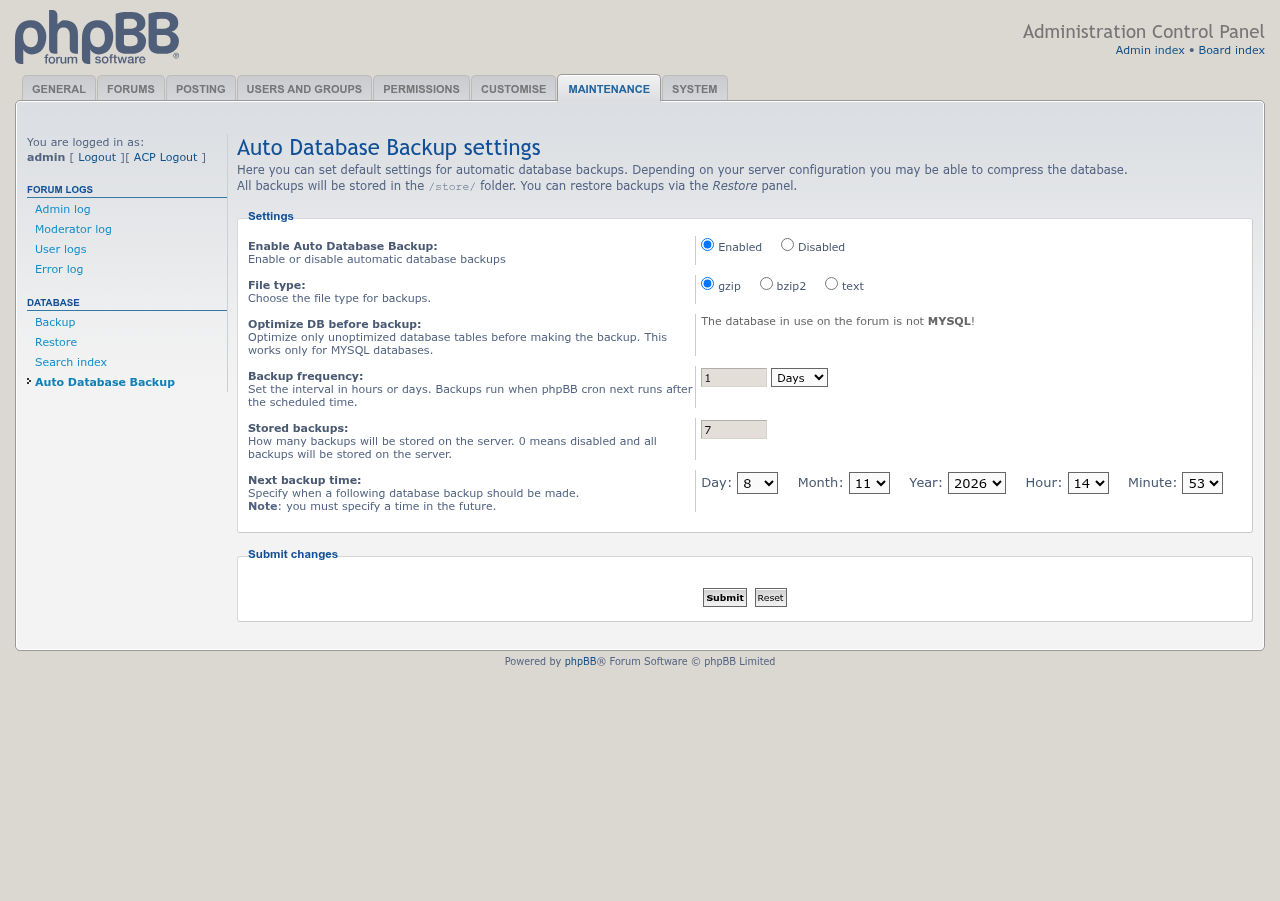
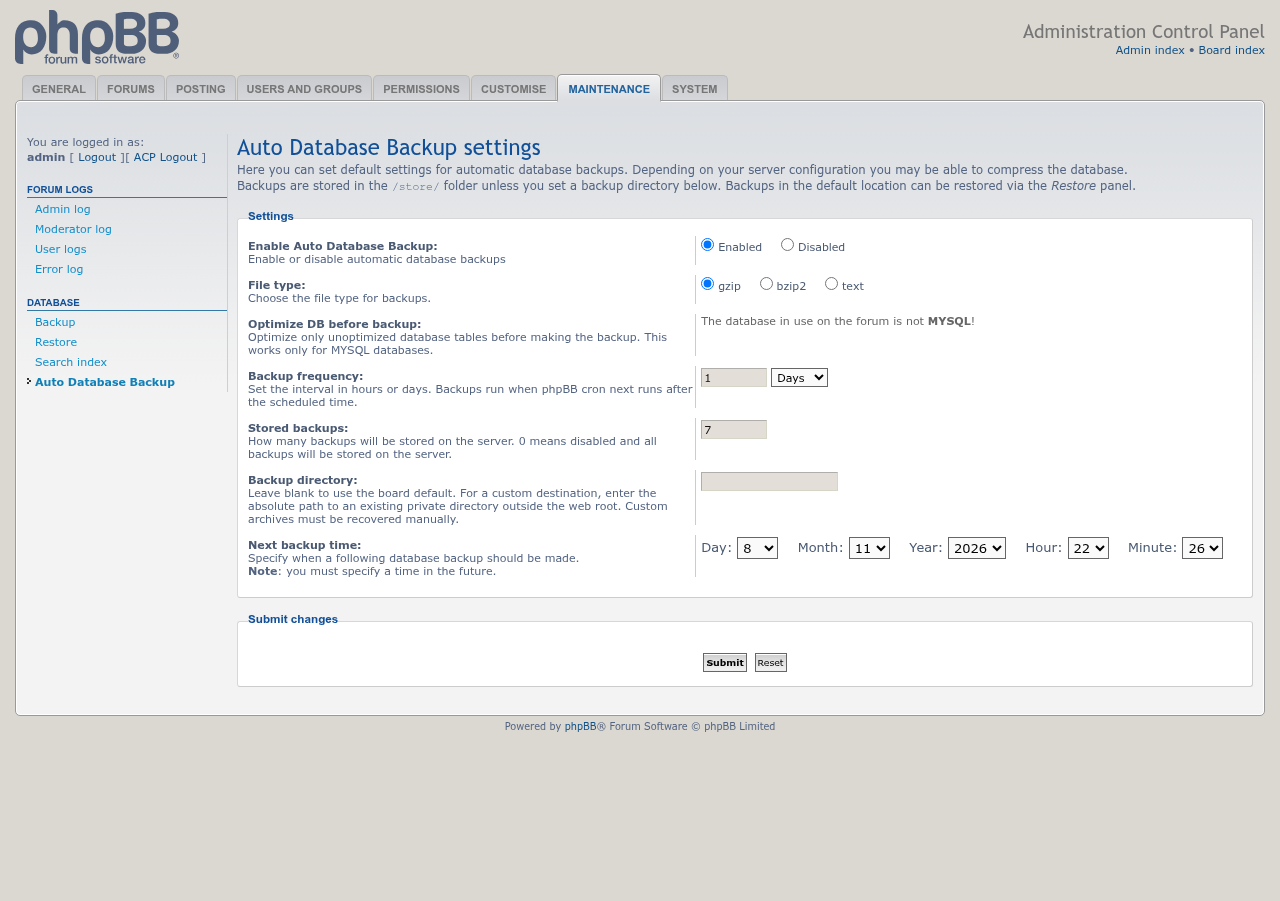
fix: refuse a backup directory path longer than 255 characters; refresh screenshots (#15)
* fix: refuse a backup directory path longer than 255 characters

phpBB stores config values in a 255-character column, so a longer path
failed to save on strict MySQL or was cut off and then refused on every
cron run.

* docs: refresh screenshots for the backup directory, add the 11/07/2026 update gallery

---------

diff --git a/language/en/auto_db_backup_acp.php b/language/en/auto_db_backup_acp.php
@@ -35,7 +35,7 @@ $lang = array_merge($lang, array(
 	'AUTO_DB_BACKUP_FREQ_ERROR'				=> 'Enter a backup frequency from 1 to 99 and select hours or days.',
 	'AUTO_DB_BACKUP_DIRECTORY'				=> 'Backup directory',
 	'AUTO_DB_BACKUP_DIRECTORY_EXPLAIN'		=> 'Leave blank to use the board default. For a custom destination, enter the absolute path to an existing private directory outside the web root. Custom archives must be recovered manually.',
-	'AUTO_DB_BACKUP_DIRECTORY_ERROR'		=> 'Use an existing private absolute directory outside the web root (for example, mode 0700 or 0750). It must be readable and writable, with no symbolic links or trailing slash.',
+	'AUTO_DB_BACKUP_DIRECTORY_ERROR'		=> 'Use an existing private absolute directory outside the web root (for example, mode 0700 or 0750). It must be readable and writable, at most 255 characters long, with no symbolic links or trailing slash.',
 	'AUTO_DB_BACKUP_COPIES'					=> 'Stored backups',
 	'AUTO_DB_BACKUP_COPIES_EXPLAIN'			=> 'How many backups will be stored on the server. 0 means disabled and all backups will be stored on the server.',
 	'AUTO_DB_BACKUP_COPIES_ERROR'			=> 'Entered value for <em>Stored backups</em> is incorrect. Value must be equal or higher than <strong>0</strong>.',

diff --git a/controller/admin_controller.php b/controller/admin_controller.php
@@ -192,7 +192,9 @@ class admin_controller
 				$errors[] = $this->language->lang('AUTO_DB_BACKUP_COPIES_ERROR');
 			}
 
-			if ($directory !== '' && !backup_directory::is_valid($directory, $this->root_path, $this->request->server('DOCUMENT_ROOT')))
+			// phpBB stores config values in a 255-character column
+			if ($directory !== '' && (utf8_strlen($directory) > 255
+				|| !backup_directory::is_valid($directory, $this->root_path, $this->request->server('DOCUMENT_ROOT'))))
 			{
 				$errors[] = $this->language->lang('AUTO_DB_BACKUP_DIRECTORY_ERROR');
 			}

diff --git a/docs/update/2026-11-07/README.md b/docs/update/2026-11-07/README.md
@@ -1,0 +1,15 @@
+# Auto Database Backup update, 11/07/2026
+
+Screenshots for the 2.2.0-dev development build, taken on phpBB 3.3.19 with phpbb-release-tools' `screenshots.py`. The full set is in the [screenshot gallery](../../images/screenshots/README.md).
+
+## Hourly schedule and custom backup directory
+
+The backup frequency can be set in hours or days, and backups can go to a private directory outside the web root. Here: a backup every 6 hours, kept in `/var/backups/phpbb`.
+
+[<img src="autodbbackup-update-settings.png" width="640" height="450" alt="Auto Database Backup settings with a frequency of 6 hours and the backup directory set to /var/backups/phpbb." />](autodbbackup-update-settings.png)
+
+## Directory checks
+
+The settings page refuses a directory inside the board or web root, open to other users, a symbolic link, or longer than 255 characters.
+
+[<img src="autodbbackup-update-directory-error.png" width="640" height="450" alt="Settings page warning that the backup directory must be an existing private absolute directory outside the web root." />](autodbbackup-update-directory-error.png)

diff --git a/docs/images/screenshots/README.md b/docs/images/screenshots/README.md
@@ -4,9 +4,9 @@ Taken on phpBB 3.3.19 with SQLite, so the MySQL-only optimize setting is not off
 
 ## ACP settings
 
-**ACP → Maintenance → Database → Auto Database Backup**, set to make a gzip backup every day and keep the newest seven.
+**ACP → Maintenance → Database → Auto Database Backup**, set to make a gzip backup every day and keep the newest seven, in phpBB's default location (Backup directory left blank).
 
-[<img src="autodbbackup-acp-settings.png" width="640" height="451" alt="Auto Database Backup settings page with backups enabled, gzip file type, a frequency of 1 day, 7 stored backups and the next backup time." />](autodbbackup-acp-settings.png)
+[<img src="autodbbackup-acp-settings.png" width="640" height="450" alt="Auto Database Backup settings page with backups enabled, gzip file type, a frequency of 1 day, 7 stored backups, a blank backup directory and the next backup time." />](autodbbackup-acp-settings.png)
 
 ## ACP Restore
 
